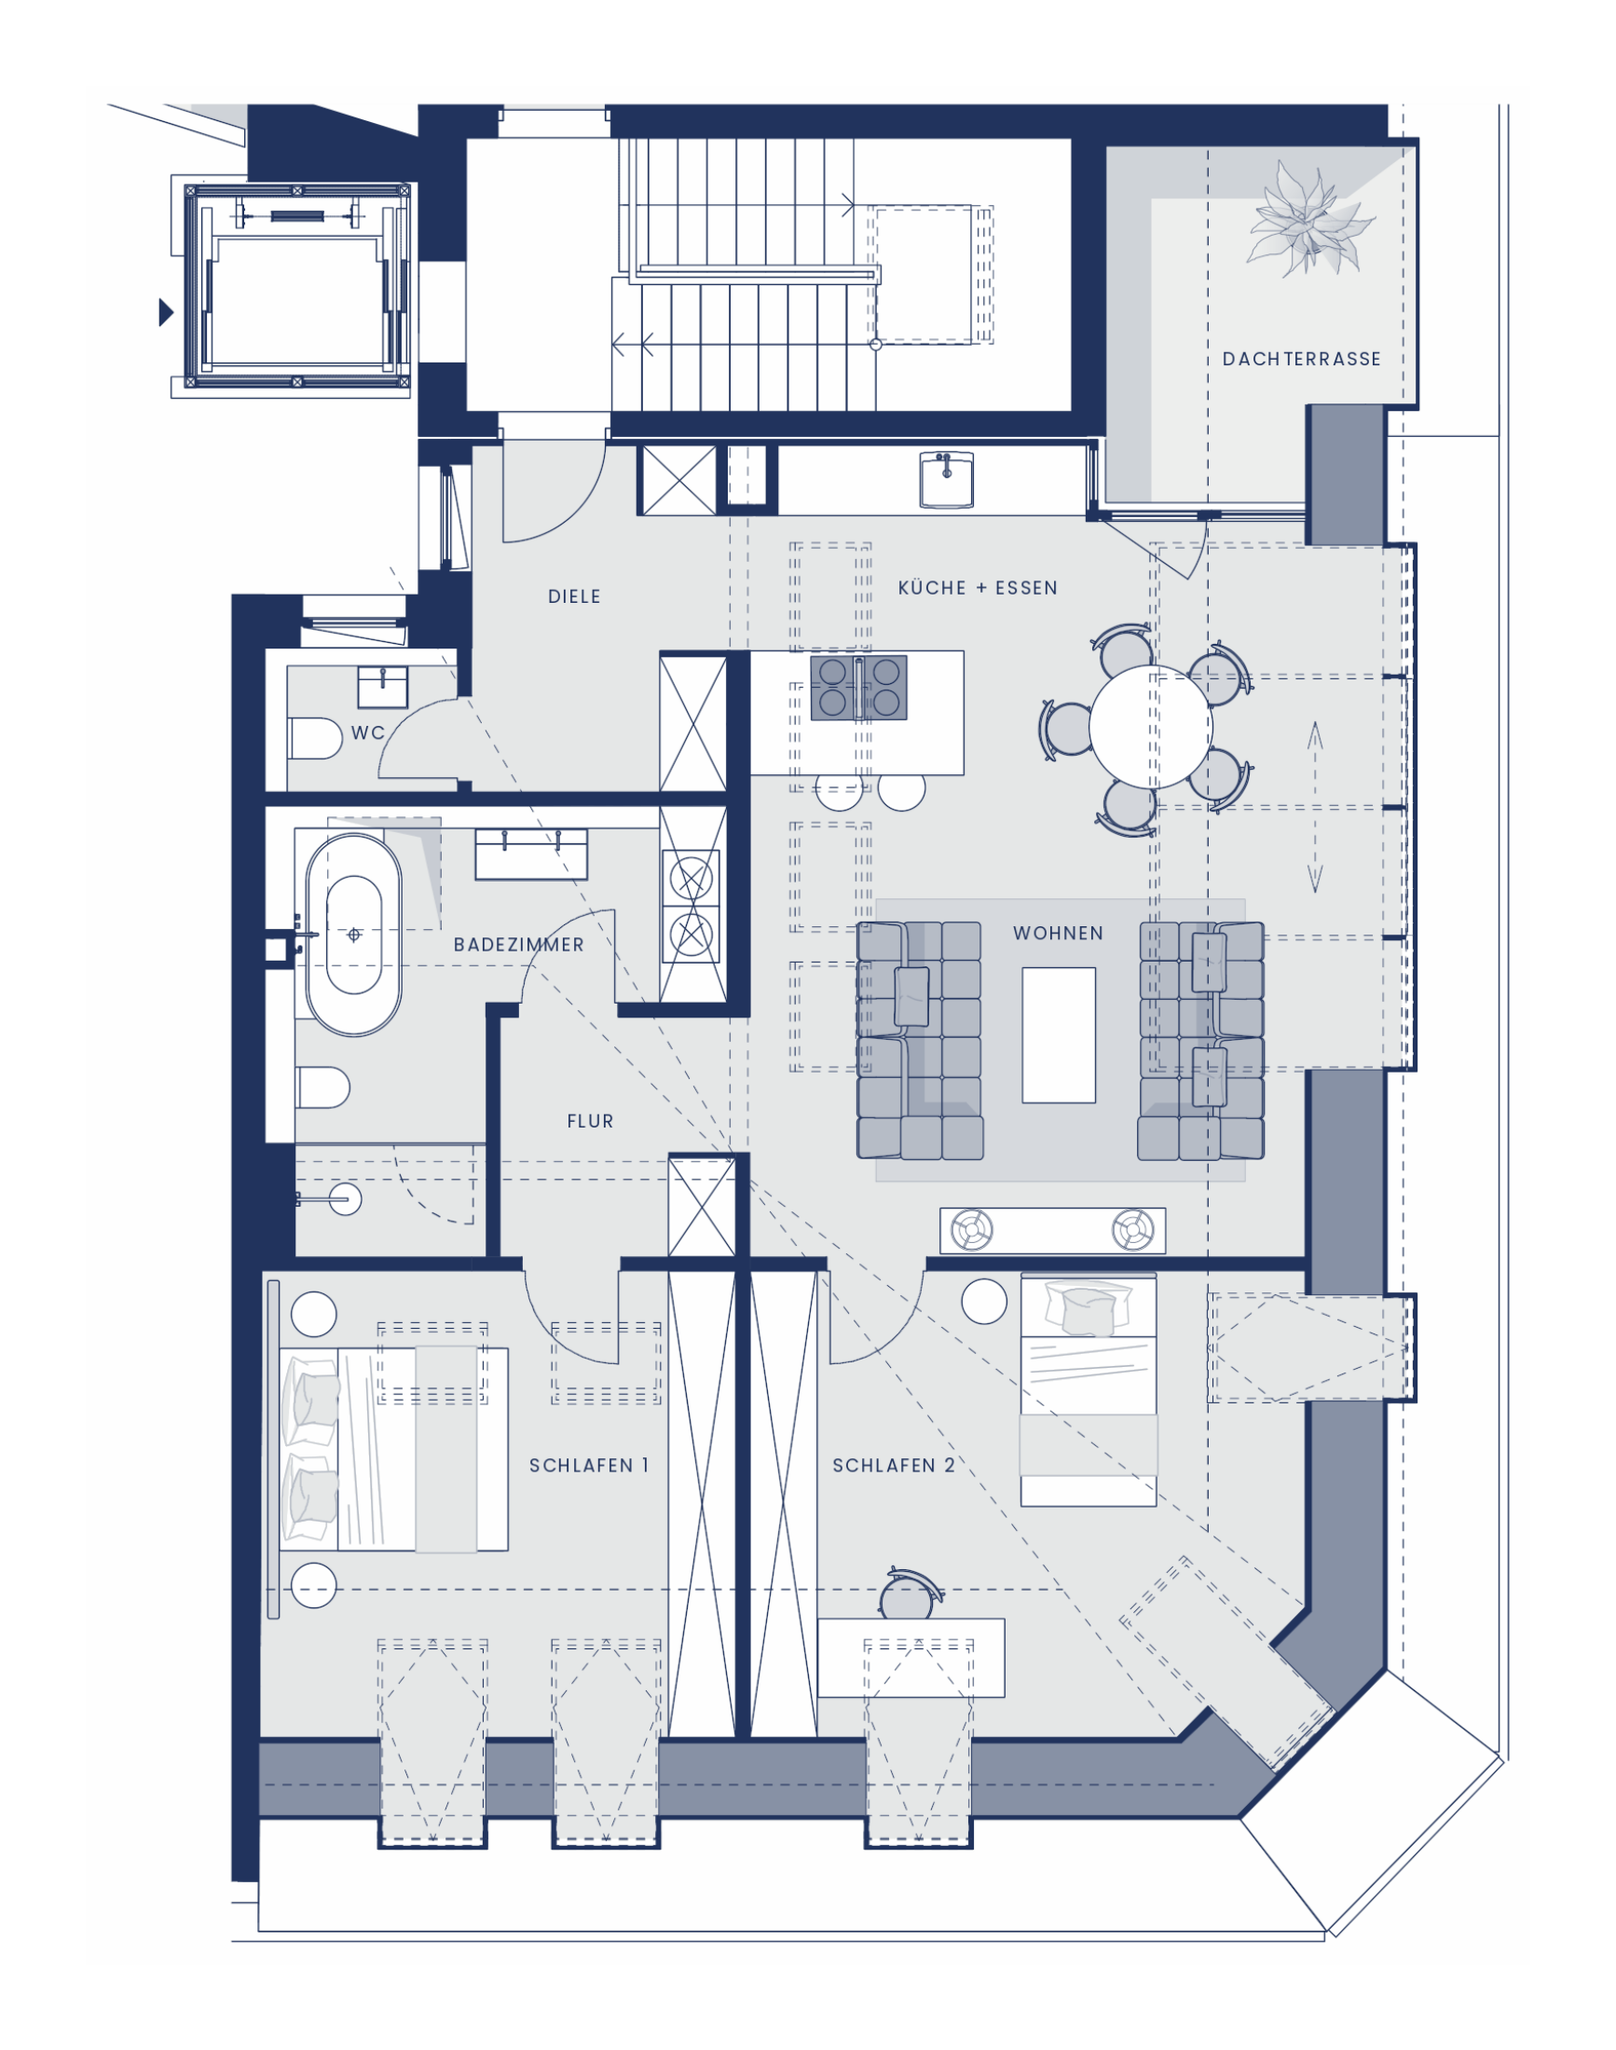
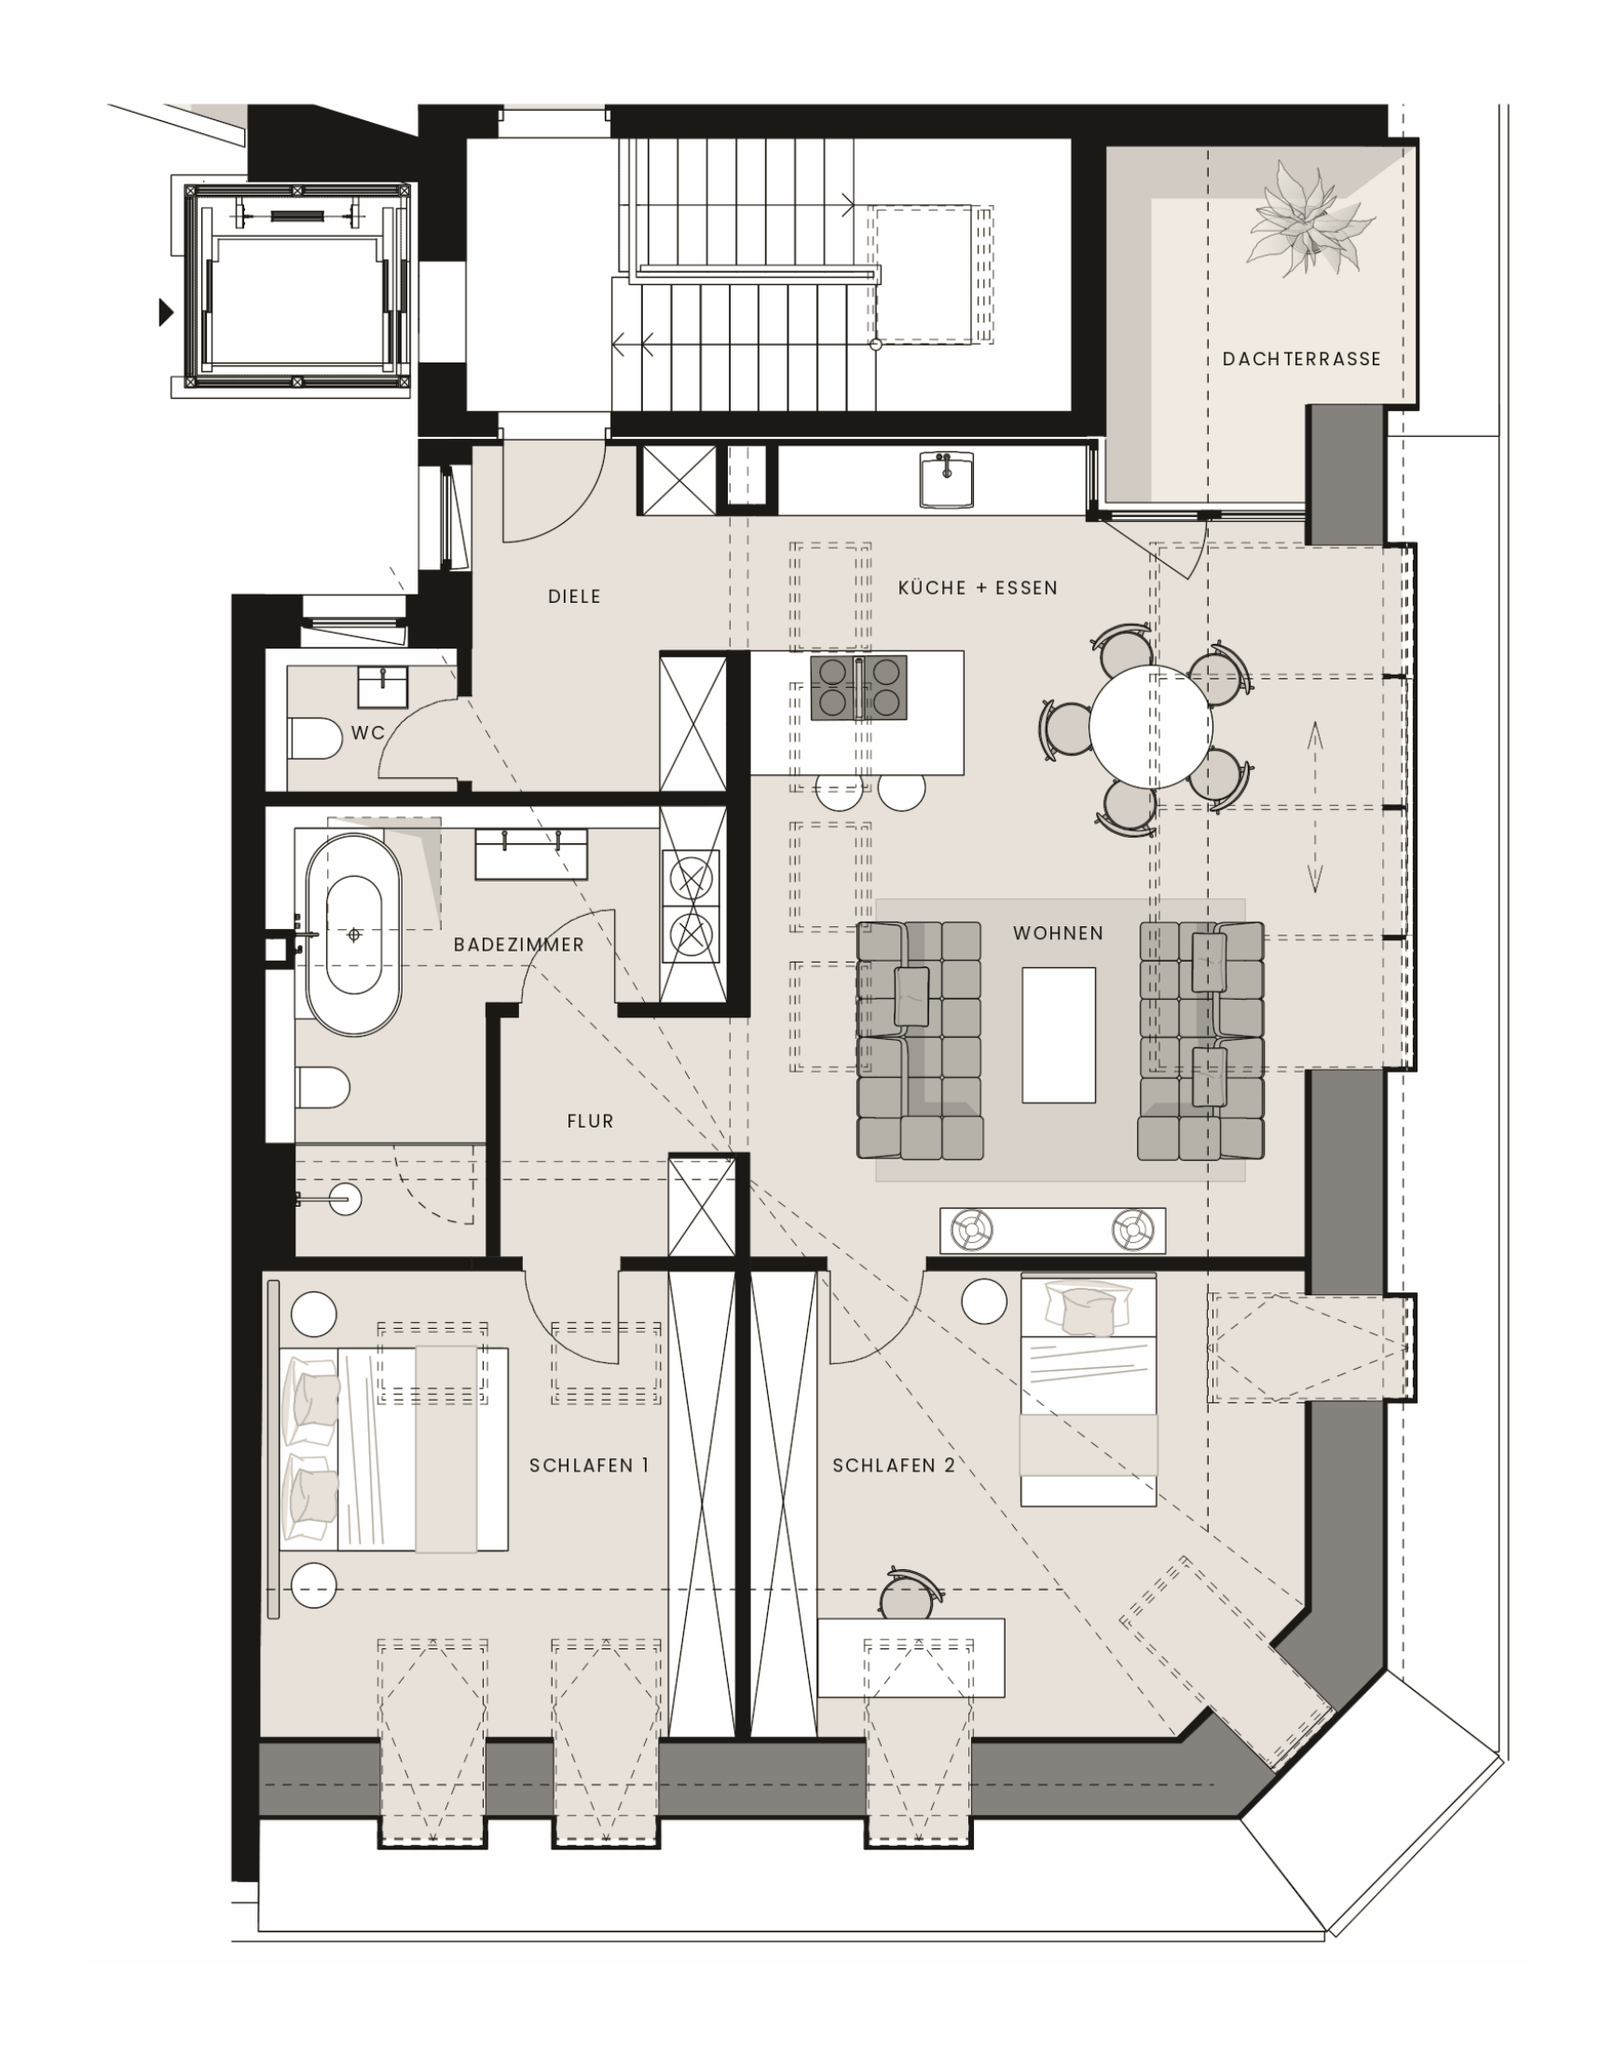
Grundrisse in neuer Farbgebung getauscht

diff --git a/brunneneck-startseite.html b/brunneneck-startseite.html
@@ -440,12 +440,12 @@ footer { background: var(--sand); color: var(--muted); font-size: var(--fs-small
         </div>
       </div>
       <div>
-        <div class="plan" id="plan-w3" data-lb="fotos/grundrisse/penthouse-whg3.png" data-cap="Grundriss Penthouse Wohnung 3 · Ecke · Variante Mastersuite" role="button" tabindex="0" aria-label="Grundriss Wohnung 3 vergrößern">
-          <img src="fotos/grundrisse/penthouse-whg3.png" alt="Grundriss Penthouse Wohnung 3, Ecke, Variante Mastersuite" loading="lazy">
+        <div class="plan" id="plan-w3" data-lb="fotos/grundrisse/penthouse-whg3.png?v=2" data-cap="Grundriss Penthouse Wohnung 3 · Ecke · Variante Mastersuite" role="button" tabindex="0" aria-label="Grundriss Wohnung 3 vergrößern">
+          <img src="fotos/grundrisse/penthouse-whg3.png?v=2" alt="Grundriss Penthouse Wohnung 3, Ecke, Variante Mastersuite" loading="lazy">
           <span class="plan-zoom" aria-hidden="true">＋</span>
         </div>
         <div class="plan-meta"><span>Grundriss · Wohnung 3 · Ecke · Mastersuite</span><span>Konzeptplanung</span></div>
-        <div class="plan-vars" role="group" aria-label="Grundriss-Varianten" data-for="plan-w3"><button type="button" aria-pressed="true" data-src="fotos/grundrisse/penthouse-whg3.png" data-cap="Grundriss Penthouse Wohnung 3 · Ecke · Variante Mastersuite" data-meta="Grundriss · Wohnung 3 · Ecke · Mastersuite">Mastersuite</button><button type="button" aria-pressed="false" data-src="fotos/grundrisse/penthouse-whg3-variante.png" data-cap="Grundriss Penthouse Wohnung 3 · Ecke · Variante 2 Schlafzimmer" data-meta="Grundriss · Wohnung 3 · Ecke · 2 Schlafzimmer">2 Schlafzimmer</button></div>
+        <div class="plan-vars" role="group" aria-label="Grundriss-Varianten" data-for="plan-w3"><button type="button" aria-pressed="true" data-src="fotos/grundrisse/penthouse-whg3.png?v=2" data-cap="Grundriss Penthouse Wohnung 3 · Ecke · Variante Mastersuite" data-meta="Grundriss · Wohnung 3 · Ecke · Mastersuite">Mastersuite</button><button type="button" aria-pressed="false" data-src="fotos/grundrisse/penthouse-whg3-variante.png?v=2" data-cap="Grundriss Penthouse Wohnung 3 · Ecke · Variante 2 Schlafzimmer" data-meta="Grundriss · Wohnung 3 · Ecke · 2 Schlafzimmer">2 Schlafzimmer</button></div>
       </div>
     </div>
 
@@ -472,12 +472,12 @@ footer { background: var(--sand); color: var(--muted); font-size: var(--fs-small
         </div>
       </div>
       <div>
-        <div class="plan" id="plan-w4" data-lb="fotos/grundrisse/penthouse-whg4.png" data-cap="Grundriss Penthouse Wohnung 4 · Hof · Variante A" role="button" tabindex="0" aria-label="Grundriss Wohnung 4 vergrößern">
-          <img src="fotos/grundrisse/penthouse-whg4.png" alt="Grundriss Penthouse Wohnung 4, Hof, Variante A" loading="lazy">
+        <div class="plan" id="plan-w4" data-lb="fotos/grundrisse/penthouse-whg4.png?v=2" data-cap="Grundriss Penthouse Wohnung 4 · Hof · Variante A" role="button" tabindex="0" aria-label="Grundriss Wohnung 4 vergrößern">
+          <img src="fotos/grundrisse/penthouse-whg4.png?v=2" alt="Grundriss Penthouse Wohnung 4, Hof, Variante A" loading="lazy">
           <span class="plan-zoom" aria-hidden="true">＋</span>
         </div>
         <div class="plan-meta"><span>Grundriss · Wohnung 4 · Hof · Variante A</span><span>Konzeptplanung</span></div>
-        <div class="plan-vars" role="group" aria-label="Grundriss-Varianten" data-for="plan-w4"><button type="button" aria-pressed="true" data-src="fotos/grundrisse/penthouse-whg4.png" data-cap="Grundriss Penthouse Wohnung 4 · Hof · Variante A" data-meta="Grundriss · Wohnung 4 · Hof · Variante A">Variante A</button><button type="button" aria-pressed="false" data-src="fotos/grundrisse/penthouse-whg4-variante.png" data-cap="Grundriss Penthouse Wohnung 4 · Hof · Variante B" data-meta="Grundriss · Wohnung 4 · Hof · Variante B">Variante B</button></div>
+        <div class="plan-vars" role="group" aria-label="Grundriss-Varianten" data-for="plan-w4"><button type="button" aria-pressed="true" data-src="fotos/grundrisse/penthouse-whg4.png?v=2" data-cap="Grundriss Penthouse Wohnung 4 · Hof · Variante A" data-meta="Grundriss · Wohnung 4 · Hof · Variante A">Variante A</button><button type="button" aria-pressed="false" data-src="fotos/grundrisse/penthouse-whg4-variante.png?v=2" data-cap="Grundriss Penthouse Wohnung 4 · Hof · Variante B" data-meta="Grundriss · Wohnung 4 · Hof · Variante B">Variante B</button></div>
       </div>
     </div>
 
@@ -504,8 +504,8 @@ footer { background: var(--sand); color: var(--muted); font-size: var(--fs-small
         </div>
       </div>
       <div>
-        <div class="plan" data-lb="fotos/grundrisse/penthouse-gesamt.png" data-cap="Grundriss Gesamtpenthouse 242 m² · Raumkonzept Studio Fabian Freytag" role="button" tabindex="0" aria-label="Grundriss Gesamtpenthouse vergrößern">
-          <img src="fotos/grundrisse/penthouse-gesamt.png" alt="Grundriss Gesamtpenthouse 242 m²" loading="lazy">
+        <div class="plan" data-lb="fotos/grundrisse/penthouse-gesamt.png?v=2" data-cap="Grundriss Gesamtpenthouse 242 m² · Raumkonzept Studio Fabian Freytag" role="button" tabindex="0" aria-label="Grundriss Gesamtpenthouse vergrößern">
+          <img src="fotos/grundrisse/penthouse-gesamt.png?v=2" alt="Grundriss Gesamtpenthouse 242 m²" loading="lazy">
           <span class="plan-zoom" aria-hidden="true">＋</span>
         </div>
         <div class="plan-meta"><span>Grundriss · Gesamtpenthouse</span><span>Gesamtfläche 242,21 m² · Konzeptplanung</span></div>

diff --git a/index.html b/index.html
@@ -440,12 +440,12 @@ footer { background: var(--sand); color: var(--muted); font-size: var(--fs-small
         </div>
       </div>
       <div>
-        <div class="plan" id="plan-w3" data-lb="fotos/grundrisse/penthouse-whg3.png" data-cap="Grundriss Penthouse Wohnung 3 · Ecke · Variante Mastersuite" role="button" tabindex="0" aria-label="Grundriss Wohnung 3 vergrößern">
-          <img src="fotos/grundrisse/penthouse-whg3.png" alt="Grundriss Penthouse Wohnung 3, Ecke, Variante Mastersuite" loading="lazy">
+        <div class="plan" id="plan-w3" data-lb="fotos/grundrisse/penthouse-whg3.png?v=2" data-cap="Grundriss Penthouse Wohnung 3 · Ecke · Variante Mastersuite" role="button" tabindex="0" aria-label="Grundriss Wohnung 3 vergrößern">
+          <img src="fotos/grundrisse/penthouse-whg3.png?v=2" alt="Grundriss Penthouse Wohnung 3, Ecke, Variante Mastersuite" loading="lazy">
           <span class="plan-zoom" aria-hidden="true">＋</span>
         </div>
         <div class="plan-meta"><span>Grundriss · Wohnung 3 · Ecke · Mastersuite</span><span>Konzeptplanung</span></div>
-        <div class="plan-vars" role="group" aria-label="Grundriss-Varianten" data-for="plan-w3"><button type="button" aria-pressed="true" data-src="fotos/grundrisse/penthouse-whg3.png" data-cap="Grundriss Penthouse Wohnung 3 · Ecke · Variante Mastersuite" data-meta="Grundriss · Wohnung 3 · Ecke · Mastersuite">Mastersuite</button><button type="button" aria-pressed="false" data-src="fotos/grundrisse/penthouse-whg3-variante.png" data-cap="Grundriss Penthouse Wohnung 3 · Ecke · Variante 2 Schlafzimmer" data-meta="Grundriss · Wohnung 3 · Ecke · 2 Schlafzimmer">2 Schlafzimmer</button></div>
+        <div class="plan-vars" role="group" aria-label="Grundriss-Varianten" data-for="plan-w3"><button type="button" aria-pressed="true" data-src="fotos/grundrisse/penthouse-whg3.png?v=2" data-cap="Grundriss Penthouse Wohnung 3 · Ecke · Variante Mastersuite" data-meta="Grundriss · Wohnung 3 · Ecke · Mastersuite">Mastersuite</button><button type="button" aria-pressed="false" data-src="fotos/grundrisse/penthouse-whg3-variante.png?v=2" data-cap="Grundriss Penthouse Wohnung 3 · Ecke · Variante 2 Schlafzimmer" data-meta="Grundriss · Wohnung 3 · Ecke · 2 Schlafzimmer">2 Schlafzimmer</button></div>
       </div>
     </div>
 
@@ -472,12 +472,12 @@ footer { background: var(--sand); color: var(--muted); font-size: var(--fs-small
         </div>
       </div>
       <div>
-        <div class="plan" id="plan-w4" data-lb="fotos/grundrisse/penthouse-whg4.png" data-cap="Grundriss Penthouse Wohnung 4 · Hof · Variante A" role="button" tabindex="0" aria-label="Grundriss Wohnung 4 vergrößern">
-          <img src="fotos/grundrisse/penthouse-whg4.png" alt="Grundriss Penthouse Wohnung 4, Hof, Variante A" loading="lazy">
+        <div class="plan" id="plan-w4" data-lb="fotos/grundrisse/penthouse-whg4.png?v=2" data-cap="Grundriss Penthouse Wohnung 4 · Hof · Variante A" role="button" tabindex="0" aria-label="Grundriss Wohnung 4 vergrößern">
+          <img src="fotos/grundrisse/penthouse-whg4.png?v=2" alt="Grundriss Penthouse Wohnung 4, Hof, Variante A" loading="lazy">
           <span class="plan-zoom" aria-hidden="true">＋</span>
         </div>
         <div class="plan-meta"><span>Grundriss · Wohnung 4 · Hof · Variante A</span><span>Konzeptplanung</span></div>
-        <div class="plan-vars" role="group" aria-label="Grundriss-Varianten" data-for="plan-w4"><button type="button" aria-pressed="true" data-src="fotos/grundrisse/penthouse-whg4.png" data-cap="Grundriss Penthouse Wohnung 4 · Hof · Variante A" data-meta="Grundriss · Wohnung 4 · Hof · Variante A">Variante A</button><button type="button" aria-pressed="false" data-src="fotos/grundrisse/penthouse-whg4-variante.png" data-cap="Grundriss Penthouse Wohnung 4 · Hof · Variante B" data-meta="Grundriss · Wohnung 4 · Hof · Variante B">Variante B</button></div>
+        <div class="plan-vars" role="group" aria-label="Grundriss-Varianten" data-for="plan-w4"><button type="button" aria-pressed="true" data-src="fotos/grundrisse/penthouse-whg4.png?v=2" data-cap="Grundriss Penthouse Wohnung 4 · Hof · Variante A" data-meta="Grundriss · Wohnung 4 · Hof · Variante A">Variante A</button><button type="button" aria-pressed="false" data-src="fotos/grundrisse/penthouse-whg4-variante.png?v=2" data-cap="Grundriss Penthouse Wohnung 4 · Hof · Variante B" data-meta="Grundriss · Wohnung 4 · Hof · Variante B">Variante B</button></div>
       </div>
     </div>
 
@@ -504,8 +504,8 @@ footer { background: var(--sand); color: var(--muted); font-size: var(--fs-small
         </div>
       </div>
       <div>
-        <div class="plan" data-lb="fotos/grundrisse/penthouse-gesamt.png" data-cap="Grundriss Gesamtpenthouse 242 m² · Raumkonzept Studio Fabian Freytag" role="button" tabindex="0" aria-label="Grundriss Gesamtpenthouse vergrößern">
-          <img src="fotos/grundrisse/penthouse-gesamt.png" alt="Grundriss Gesamtpenthouse 242 m²" loading="lazy">
+        <div class="plan" data-lb="fotos/grundrisse/penthouse-gesamt.png?v=2" data-cap="Grundriss Gesamtpenthouse 242 m² · Raumkonzept Studio Fabian Freytag" role="button" tabindex="0" aria-label="Grundriss Gesamtpenthouse vergrößern">
+          <img src="fotos/grundrisse/penthouse-gesamt.png?v=2" alt="Grundriss Gesamtpenthouse 242 m²" loading="lazy">
           <span class="plan-zoom" aria-hidden="true">＋</span>
         </div>
         <div class="plan-meta"><span>Grundriss · Gesamtpenthouse</span><span>Gesamtfläche 242,21 m² · Konzeptplanung</span></div>

diff --git a/wohnung-30.html b/wohnung-30.html
@@ -378,12 +378,12 @@ footer { background: var(--sand); color: var(--muted); font-size: var(--fs-small
       </div>
     </div>
     <div class="r">
-      <div class="plan" id="plan-we30" data-lb="fotos/grundrisse/we30-variante-a.png" data-plan data-cap="Grundriss Wohnung 30 · Variante Loft" role="button" tabindex="0" aria-label="Grundriss Wohnung 30 vergrößern">
-        <img src="fotos/grundrisse/we30-variante-a.png" alt="Grundriss Wohnung 30 mit Raumflächen, Variante Loft" loading="lazy">
+      <div class="plan" id="plan-we30" data-lb="fotos/grundrisse/we30-variante-a.png?v=2" data-plan data-cap="Grundriss Wohnung 30 · Variante Loft" role="button" tabindex="0" aria-label="Grundriss Wohnung 30 vergrößern">
+        <img src="fotos/grundrisse/we30-variante-a.png?v=2" alt="Grundriss Wohnung 30 mit Raumflächen, Variante Loft" loading="lazy">
         <span class="plan-zoom" aria-hidden="true">＋</span>
       </div>
       <div class="plan-meta"><span>Grundriss · Wohnung 30 · Variante Loft</span><span>ca. 97,11 m² · 4. OG</span></div>
-        <div class="plan-vars" role="group" aria-label="Grundriss-Varianten" data-for="plan-we30"><button type="button" aria-pressed="true" data-src="fotos/grundrisse/we30-variante-a.png" data-cap="Grundriss Wohnung 30 · Variante Loft" data-meta="Grundriss · Wohnung 30 · Variante Loft">Variante Loft</button><button type="button" aria-pressed="false" data-src="fotos/grundrisse/we30-variante-b.png" data-cap="Grundriss Wohnung 30 · Variante Familie" data-meta="Grundriss · Wohnung 30 · Variante Familie">Variante Familie</button></div>
+        <div class="plan-vars" role="group" aria-label="Grundriss-Varianten" data-for="plan-we30"><button type="button" aria-pressed="true" data-src="fotos/grundrisse/we30-variante-a.png?v=2" data-cap="Grundriss Wohnung 30 · Variante Loft" data-meta="Grundriss · Wohnung 30 · Variante Loft">Variante Loft</button><button type="button" aria-pressed="false" data-src="fotos/grundrisse/we30-variante-b.png?v=2" data-cap="Grundriss Wohnung 30 · Variante Familie" data-meta="Grundriss · Wohnung 30 · Variante Familie">Variante Familie</button></div>
     </div>
   </div>
 </section>

diff --git a/wohnung-32.html b/wohnung-32.html
@@ -376,8 +376,8 @@ footer { background: var(--sand); color: var(--muted); font-size: var(--fs-small
       </div>
     </div>
     <div class="r">
-      <div class="plan" data-lb="fotos/grundrisse/we32.png" data-plan data-cap="Grundriss Wohnung 32" role="button" tabindex="0" aria-label="Grundriss Wohnung 32 vergrößern">
-        <img src="fotos/grundrisse/we32.png" alt="Grundriss Wohnung 32 mit Raumflächen" loading="lazy">
+      <div class="plan" data-lb="fotos/grundrisse/we32.png?v=2" data-plan data-cap="Grundriss Wohnung 32" role="button" tabindex="0" aria-label="Grundriss Wohnung 32 vergrößern">
+        <img src="fotos/grundrisse/we32.png?v=2" alt="Grundriss Wohnung 32 mit Raumflächen" loading="lazy">
         <span class="plan-zoom" aria-hidden="true">＋</span>
       </div>
       <div class="plan-meta"><span>Grundriss · Wohnung 32</span><span>ca. 118 m² · 4. OG</span></div>
